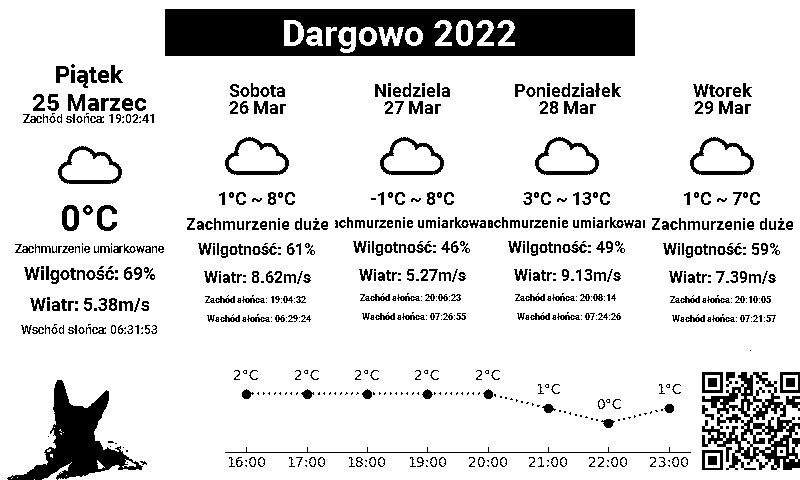
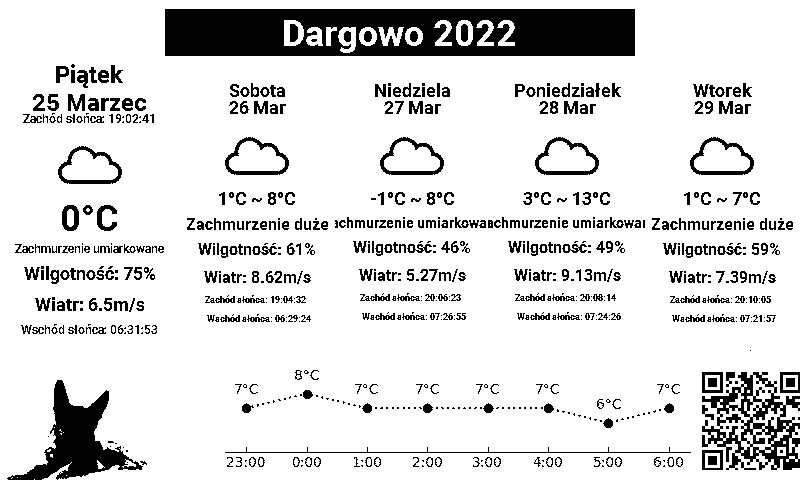
Poprawienie tworzenia wykresów. (Dodanie absolutnej ścieżki do tworzenia wykresu na różnych urządzeniach)

diff --git a/Fun/functions/plottwist.py b/Fun/functions/plottwist.py
@@ -1,6 +1,7 @@
 # Metoda tworząca plik png z wykresem temperatur w 8 następujących po sobie godzinach
 # Jeżeli zapytasz dlaczego zapisuje, to odpowiem, że nie było czasu, ale może teraz już umiesz xD
 
+import os
 import matplotlib
 import matplotlib.pyplot as plt
 from functions.fun import rawData
@@ -8,6 +9,11 @@ import datetime
 
 
 def makePlot(arraj):
+    
+    '''
+    Create plot of 
+    '''
+    # Wczytanie danych
     H = datetime.datetime.now().hour
     x = [rawData(item.ref_time).hour for item in arraj]
     y = [int(item.temperature('celsius')["temp"]) for item in arraj]
@@ -30,7 +36,11 @@ def makePlot(arraj):
     figa.subplots_adjust(bottom = 0.15)
 
     #stworzenie osi x z godzinami
-    xt = ["Teraz" if item == (H + 1) else (str(item) + ":00") for item in x[:8] ]
+
+
+    # jedyny moment, w którym nie działa to godzina 23,
+    # Nikt na to nie będzie patrzył o 23 xD
+    xt = ["Teraz" if item == (H + 1) else (str(item) + ":00") for item in x1 ]
     plt.xticks(ticks=[1,2,3,4,5,6,7,8], labels=xt)
 
     # Narysowanie wykresu
@@ -43,6 +53,11 @@ def makePlot(arraj):
         l = f"{y}{chr(176)}C"
         plt.annotate(l, (x, y), textcoords = "offset points", xytext = (0, 10), ha = 'center')
 
-    plt.savefig("/home/pi/WeatherStation/icons/xxx.png", dpi = 100)
+    # Get absolute path to icon directory in any machine
+    pathToPlot = f"{os.path.dirname(os.path.abspath(__name__))}/icons/hourlyTemperaturePlot.png"
+    # plt.savefig("/home/pi/WeatherStation/icons/xxx.png", dpi = 100)
+    plt.savefig(pathToPlot, dpi = 100)
+
+    
     
 

diff --git a/src/debugPrint.py b/src/debugPrint.py
@@ -1,3 +1,5 @@
+import os
+
 from screen import container
 from PIL import Image
 from daily_images import wList
@@ -5,6 +7,9 @@ from app import currentWeather, hList
 from main_image import leftImg
 from functions.plottwist import makePlot
 
+
+pathToPlot = os.path.dirname(os.path.dirname(__file__))
+print("TEST "*5,"\n",pathToPlot)
 makePlot(hList)
 im = container(leftImg(currentWeather), side_images = wList)
 im = im.save("test.png")

diff --git a/src/footer.py b/src/footer.py
@@ -53,7 +53,7 @@ def footer(w = 650, h = 120):
     x, y = write.textsize(cytat, font = shadowFont)
 
     # write.text((int((width - x) / 2), (int((height - y) / 2))), cytat, font = shadowFont, fill = 0)
-    plot = Image.open(os.path.join(icodir, 'xxx.png'))
+    plot = Image.open(os.path.join(icodir, 'hourlyTemperaturePlot.png'))
     foot.paste(plot, (0, 0))
     img = qrGenerator.qrGenerator(1)
 
